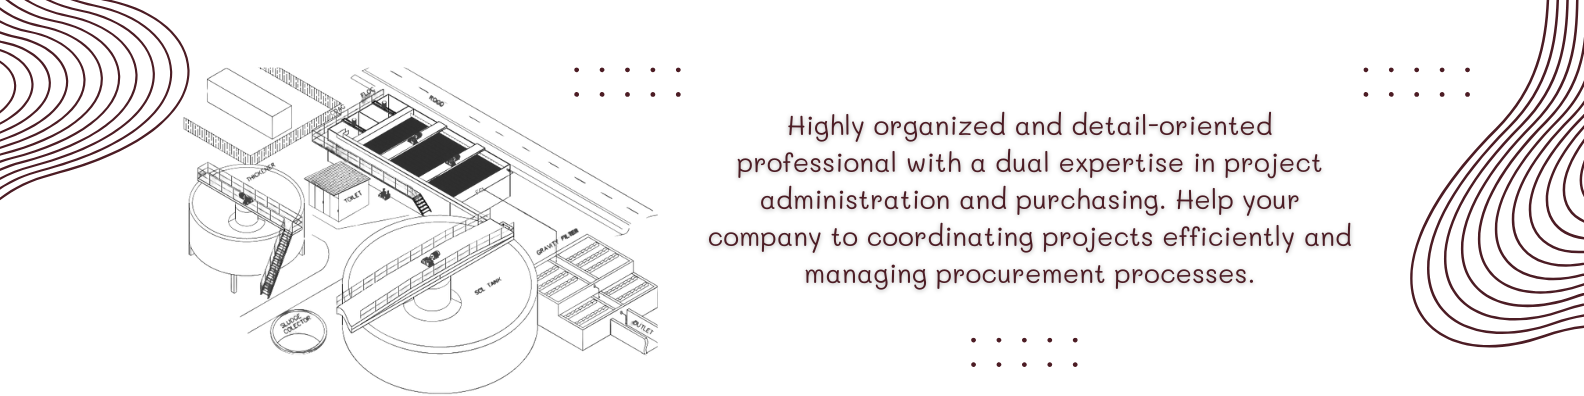
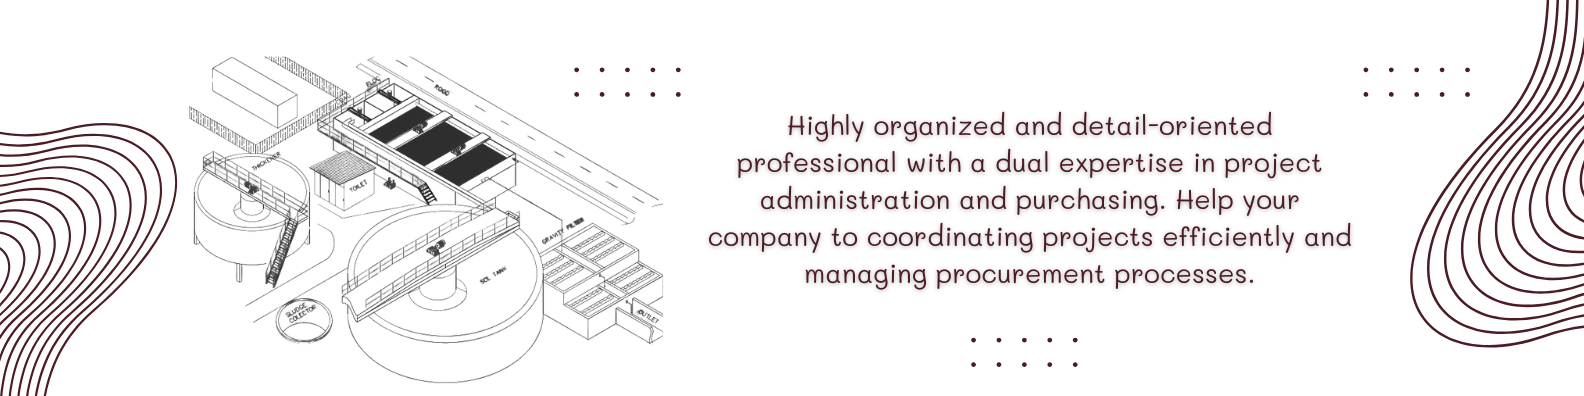
change photo

diff --git a/src/constants/index.ts b/src/constants/index.ts
@@ -1,4 +1,4 @@
-export const ProfilePhoto = "/images/WhatsApp_Image_2024-05-10_at_16.54.54-removebg-preview_waifu2x_art_scan_noise3_scale.webp"
+export const ProfilePhoto = "/images/c02202aaef5aa45a883490d93524f8b391593440_s2_n3_y2.webp"
 
 export const ContactPhoto = "/images/WhatsApp_Image_2024-05-24_at_2.31.05_PM__1_-removebg-preview_waifu2x_art_scan_noise3_scale.webp"
 
